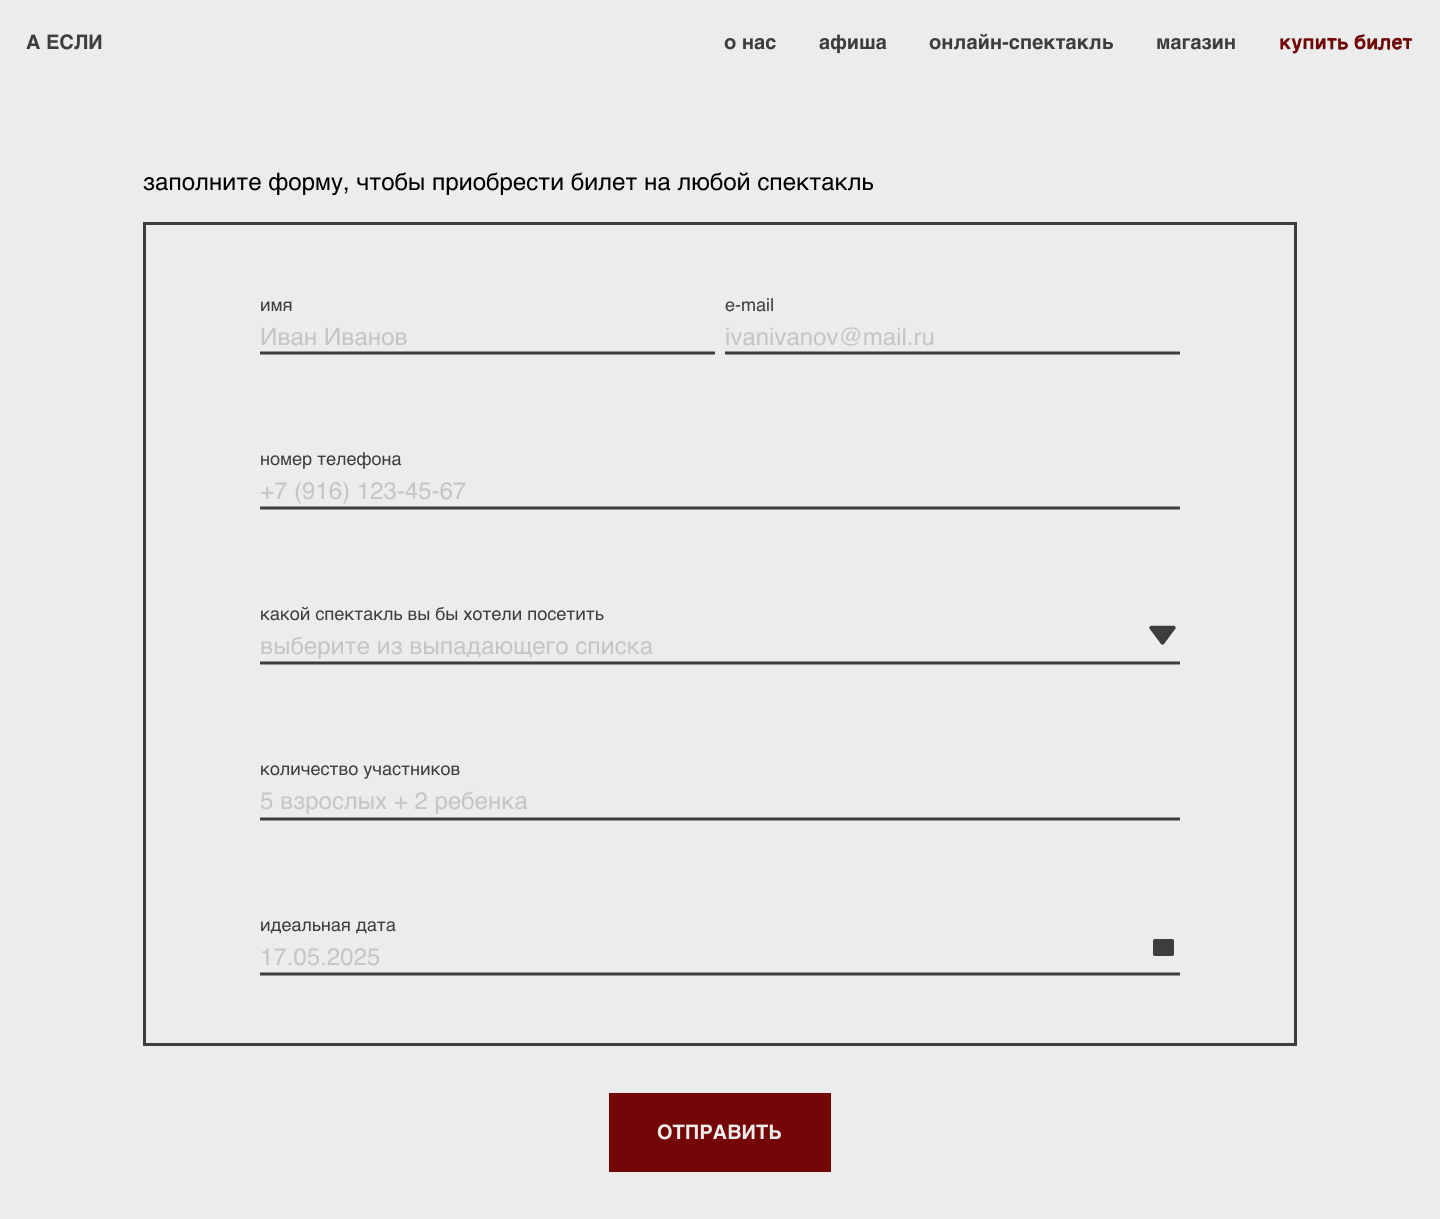
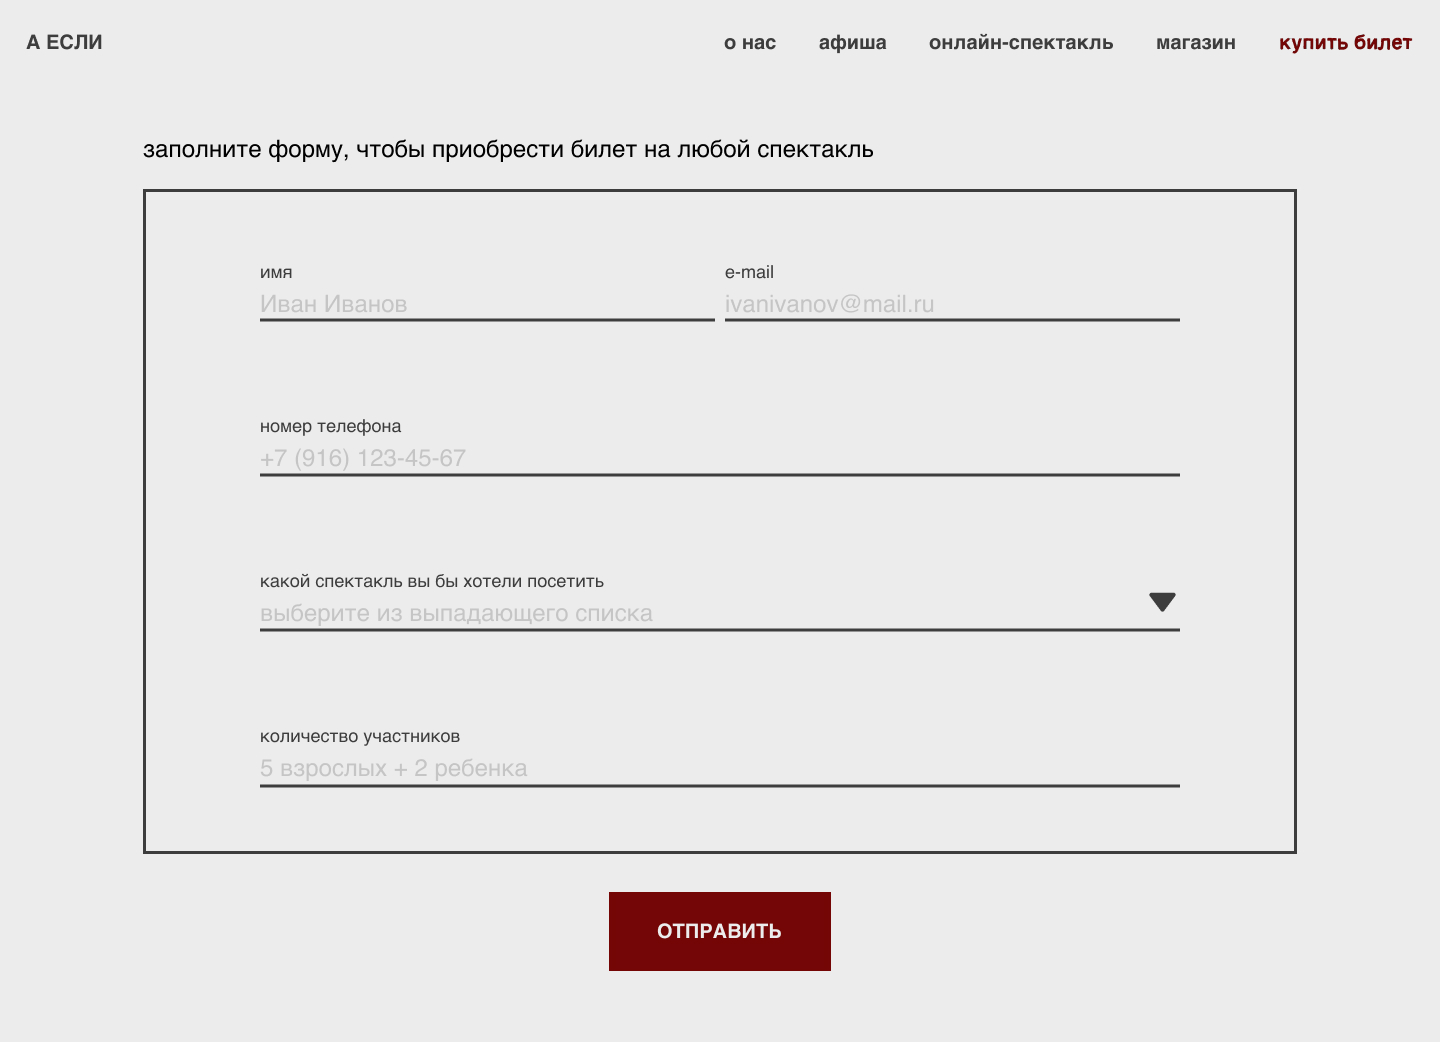
desktopfinal

diff --git a/stylesheets/layout.css b/stylesheets/layout.css
@@ -2,7 +2,7 @@ body {
   font-family: Helvetica;
   background-color: #f7f7f7;
   position: relative;
-  /* background-image: url(../images/главная\ итог.jpg); */
+  /* background-image: url(../images/касса\ итог.jpg); */
   width: 100%;
   /* height: 2114px;
   z-index: -10000;
@@ -933,6 +933,17 @@ section {
 }
 
 /* форма билеты */
+input {
+  background: none;
+  border: none;
+  padding: 0;
+  margin: 0;
+  font: inherit;
+  cursor: pointer;
+  outline: none;
+  color: inherit;
+  text-align: center;
+}
 .scr1tick {
   position: relative;
   display: flex;
@@ -949,10 +960,35 @@ section {
   width: 80vw;
   margin-left: 10vw;
 }
-.form-group input {
-  padding: 0.01vw;
-  border: 0.1vw solid #3d3d3d;
-  width: 100%;
+.ch1 {
+  position: absolute;
+  margin-left: 18vw;
+  margin-top: 9.2vw;
+}
+.ch2 {
+  position: absolute;
+  margin-left: 50.3vw;
+  margin-top: 9.2vw;
+}
+.ch3 {
+  position: absolute;
+  margin-left: 18vw;
+  margin-top: 20vw;
+}
+.ch4 {
+  position: absolute;
+  margin-left: 18vw;
+  margin-top: 30.8vw;
+}
+.ch5 {
+  position: absolute;
+  margin-left: 18vw;
+  margin-top: 41.6vw;
+}
+.ch6 {
+  position: absolute;
+  margin-left: 18vw;
+  margin-top: 51.4vw;
 }
 .formtickets {
   position: relative;
@@ -978,6 +1014,8 @@ section {
 #name {
   width: 31.2vw;
   height: 2vw;
+  margin-left: -10.5vw;
+  margin-top: 0.2vw;
 }
 .formemail {
   position: absolute;
@@ -998,6 +1036,8 @@ section {
 #email {
   width: 31.2vw;
   height: 2vw;
+  margin-left: -8.4vw;
+  margin-top: 0.2vw;
 }
 .formphone {
   position: absolute;
@@ -1018,6 +1058,8 @@ section {
 #phone {
   width: 63.5vw;
   height: 2vw;
+  margin-left: -24.4vw;
+  margin-top: 0.2vw;
 }
 .formpartic {
   position: absolute;
@@ -1038,6 +1080,8 @@ section {
 #participants {
   width: 63.5vw;
   height: 2vw;
+  margin-left: -22.4vw;
+  margin-top: 0.2vw;
 }
 .formshow {
   position: absolute;
@@ -1058,6 +1102,8 @@ section {
 #show {
   width: 63.5vw;
   height: 2vw;
+  margin-left: -24vw;
+  margin-top: 0.2vw;
 }
 .formdate {
   position: absolute;
@@ -1107,6 +1153,8 @@ section {
 #phone2 {
   width: 31.2vw;
   height: 2vw;
+  margin-left: -8.4vw;
+  margin-top: 0.2vw;
 }
 .formadress {
   position: absolute;
@@ -1127,6 +1175,8 @@ section {
 #adress {
   width: 63.5vw;
   height: 2vw;
+  margin-left: -18.5vw;
+  margin-top: 0.2vw;
 }
 .formitems {
   position: absolute;
@@ -1147,6 +1197,8 @@ section {
 #items {
   width: 63.5vw;
   height: 2vw;
+  margin-left: -31.2vw;
+  margin-top: 0.2vw;
 }
 .scr2basket {
   position: relative;

diff --git a/ticket.html b/ticket.html
@@ -24,6 +24,12 @@
     <section class="formtickets">
       <form class="booking-form">
         <img class="border" src="images/border.svg" alt="" />
+        <img class="ch1" src="images/chertasm.svg" alt="" />
+        <img class="ch2" src="images/chertasm.svg" alt="" />
+        <img class="ch3" src="images/chertabig.svg" alt="" />
+        <img class="ch4" src="images/chertabig.svg" alt="" />
+        <img class="ch5" src="images/chertabig.svg" alt="" />
+        <img class="ch6" src="images/chertabig.svg" alt="" />
         <div class="formname">
           <label for="name">имя</label>
           <input type="text" id="name" placeholder="Иван Иванов" required />

diff --git a/basket.html b/basket.html
@@ -24,6 +24,10 @@
     <section class="formbasket">
       <form class="booking-form">
         <img class="border" src="images/border2.svg" alt="" />
+        <img class="ch1" src="images/chertasm.svg" alt="" />
+        <img class="ch2" src="images/chertasm.svg" alt="" />
+        <img class="ch3" src="images/chertabig.svg" alt="" />
+        <img class="ch4" src="images/chertabig.svg" alt="" />
         <div class="formname">
           <label for="name">имя</label>
           <input type="text" id="name" placeholder="Иван Иванов" required />
